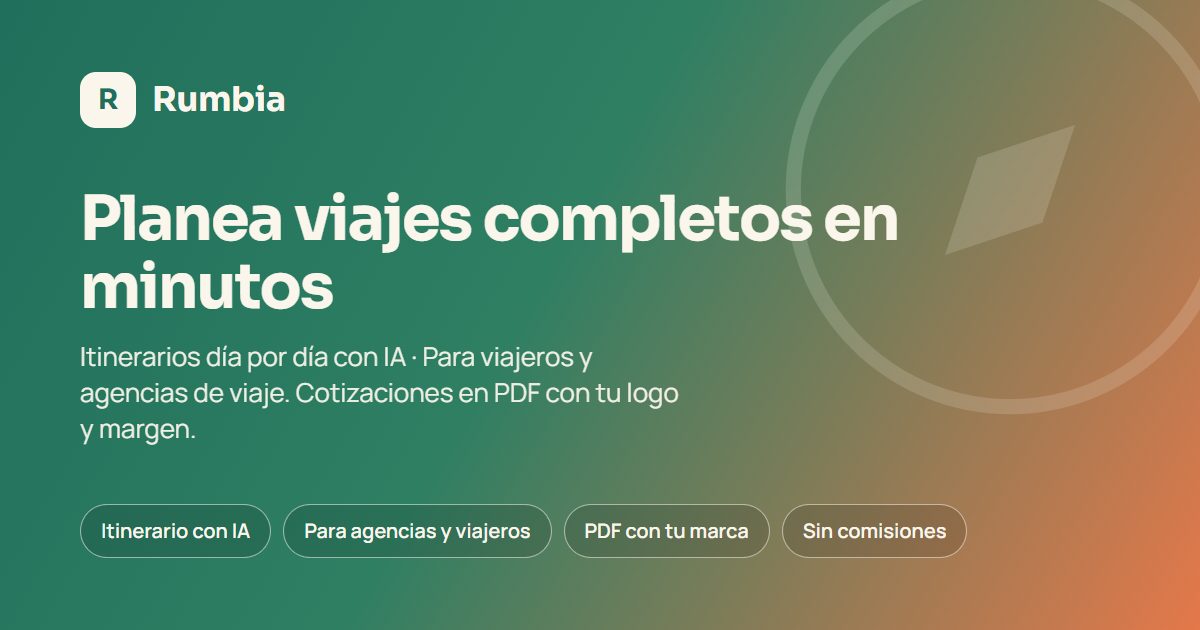
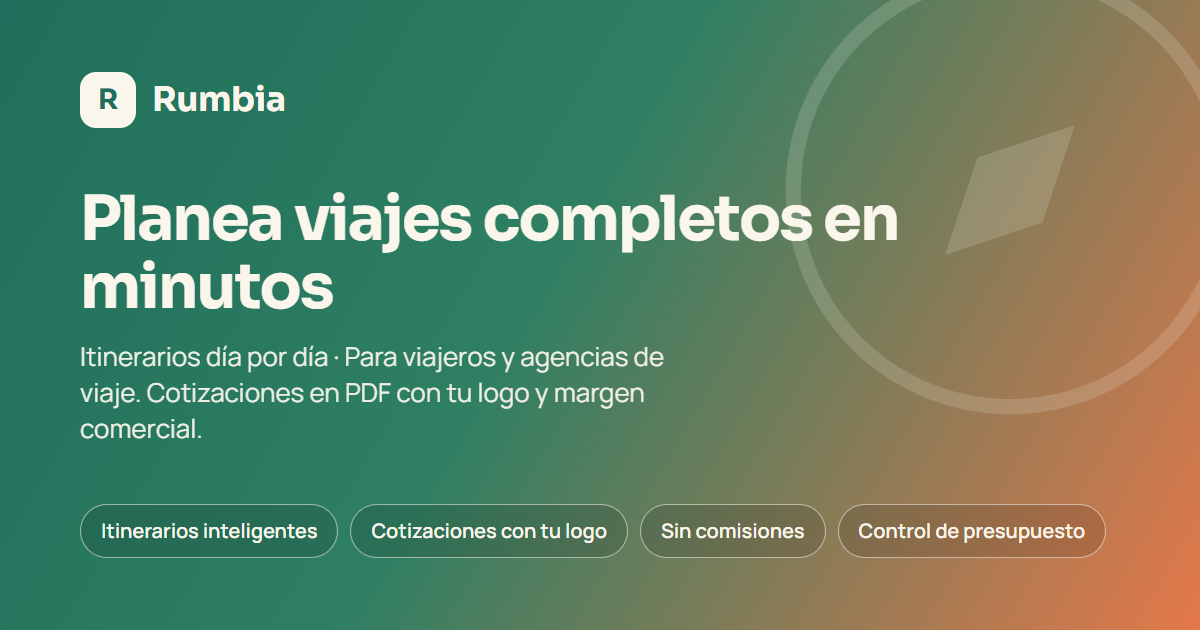
refactor(copy): suaviza menciones explicitas de IA en titulos, tarjetas de planes y portada, posicionando Rumbia como planeador inteligente

Changed region(s): [[0.0617, 0.5429, 0.5858, 0.7238], [0.1542, 0.7841, 0.925, 0.9048]]

diff --git a/client/src/pages/Acerca.jsx b/client/src/pages/Acerca.jsx
@@ -167,10 +167,10 @@ export default function Acerca() {
                   </div>
                   <ul style={{ margin: 0, paddingLeft: 18, fontSize: '0.82rem', color: 'var(--texto-suave)' }}>
                     <li>
-                      <strong>5 itinerarios generados con IA por mes</strong> (recarga cada día 1).
+                      <strong>5 itinerarios inteligentes por mes</strong> (recarga cada día 1).
                     </li>
                     <li>
-                      <strong>60 mensajes con el chatbot de IA por mes</strong>.
+                      <strong>60 consultas al asistente virtual por mes</strong>.
                     </li>
                     <li>
                       <em>Viajes guardados, notas, gastos y cálculos manuales sin ningún límite.</em>
@@ -237,7 +237,7 @@ export default function Acerca() {
                         Planes Inicio, Agencia y Pro
                       </strong>
                       <span className="tenue" style={{ fontSize: '0.8rem' }}>
-                        De 1 a 15 agentes · Hasta 500 itinerarios con IA · Ahorro anual
+                        De 1 a 15 agentes · Hasta 500 itinerarios inteligentes · Ahorro anual
                       </span>
                     </div>
                     <a
@@ -505,8 +505,8 @@ export default function Acerca() {
                   </div>
 
                   <ul className="pila-sm" style={{ paddingLeft: 18, margin: 0, fontSize: '0.88rem' }}>
-                    <li><strong>25 itinerarios con IA</strong> al mes</li>
-                    <li>60 mensajes al chat de IA por mes</li>
+                    <li><strong>25 itinerarios inteligentes</strong> al mes</li>
+                    <li>60 consultas al asistente virtual por mes</li>
                     <li>Viajes y gastos manuales ilimitados</li>
                     <li>Cálculos automáticos de vuelos y hoteles</li>
                     <li>Conversión de divisas y pronóstico del clima</li>
@@ -566,8 +566,8 @@ export default function Acerca() {
                   </div>
 
                   <ul className="pila-sm" style={{ paddingLeft: 18, margin: 0, fontSize: '0.88rem' }}>
-                    <li><strong>150 itinerarios con IA</strong> al mes</li>
-                    <li><strong>Chat de IA ilimitado</strong></li>
+                    <li><strong>150 itinerarios inteligentes</strong> al mes</li>
+                    <li><strong>Asistente virtual de chat ilimitado</strong></li>
                     <li><strong>Logo y membrete oficial</strong> de la agencia en PDF</li>
                     <li><strong>Margen comercial automático</strong> (% o monto fijo)</li>
                     <li><strong>Ocultar desglose de precios</strong> (precio cerrado al cliente)</li>
@@ -625,11 +625,11 @@ export default function Acerca() {
                   </div>
 
                   <ul className="pila-sm" style={{ paddingLeft: 18, margin: 0, fontSize: '0.88rem' }}>
-                    <li><strong>500 itinerarios con IA</strong> al mes</li>
+                    <li><strong>500 itinerarios inteligentes</strong> al mes</li>
                     <li><strong>Todo lo del plan Agencia</strong></li>
                     <li><strong>Marca Blanca:</strong> Sin mención de Rumbia en el pie de página de los PDFs</li>
                     <li><strong>Soporte prioritario</strong> directo vía WhatsApp</li>
-                    <li>Chat de IA ilimitado</li>
+                    <li>Asistente virtual de chat ilimitado</li>
                     <li>Reportes avanzados de ventas y cotizaciones</li>
                   </ul>
                 </div>
@@ -711,10 +711,10 @@ export default function Acerca() {
                   <Icono nombre="chispa" tamano={24} className="icono-seccion" />
                   <div>
                     <h3 style={{ margin: 0, fontSize: '1.35rem' }}>
-                      Inteligencia Artificial y Organización Total
+                      Asistencia Inteligente y Organización Total
                     </h3>
                     <p className="suave" style={{ margin: '3px 0 0', fontSize: '0.92rem' }}>
-                      Tecnología de Google Gemini integrada en cada paso de tu viaje.
+                      Tecnología inteligente y algoritmos avanzados para optimizar cada paso de tu viaje.
                     </p>
                   </div>
                 </div>

diff --git a/client/index.html b/client/index.html
@@ -9,10 +9,10 @@
     <!-- Ver client/public/theme-init.js: por que vive en un archivo aparte. -->
     <script src="/theme-init.js"></script>
 
-    <title>Rumbia — Planeador de viajes con IA para viajeros y agencias</title>
+    <title>Rumbia — Planeador de viajes y cotizador para agencias</title>
     <meta
       name="description"
-      content="Planea viajes completos en minutos: itinerarios día por día con IA, cotizaciones oficiales en PDF con tu logo y margen, rutas, vuelos y hospedajes."
+      content="Planea viajes completos en minutos: itinerarios día por día con asistencia inteligente, cotizaciones oficiales en PDF con tu logo y margen, rutas, vuelos y hospedajes."
     />
     <link rel="canonical" href="https://rumbiamx.com/" />
     <link rel="icon" href="/favicon.svg" type="image/svg+xml" />
@@ -27,10 +27,10 @@
     <meta property="og:site_name" content="Rumbia" />
     <meta property="og:locale" content="es_MX" />
     <meta property="og:url" content="https://rumbiamx.com/" />
-    <meta property="og:title" content="Rumbia — Planeador de viajes con IA para viajeros y agencias" />
+    <meta property="og:title" content="Rumbia — Planeador de viajes y cotizador para agencias" />
     <meta
       property="og:description"
-      content="Planea viajes completos en minutos: itinerarios día por día con IA, cotizaciones oficiales en PDF con tu logo y margen, rutas, vuelos y hospedajes."
+      content="Planea viajes completos en minutos: itinerarios día por día con asistencia inteligente, cotizaciones oficiales en PDF con tu logo y margen, rutas, vuelos y hospedajes."
     />
     <meta property="og:image" content="https://rumbiamx.com/og.jpg" />
     <meta property="og:image:secure_url" content="https://rumbiamx.com/og.jpg" />
@@ -39,16 +39,16 @@
     <meta property="og:image:type" content="image/jpeg" />
     <meta
       property="og:image:alt"
-      content="Rumbia: planea viajes completos con IA para viajeros y agencias de viaje."
+      content="Rumbia: planea viajes completos para viajeros y agencias de viaje."
     />
 
     <!-- X / Twitter -->
     <meta name="twitter:card" content="summary_large_image" />
     <meta name="twitter:site" content="@rumbiamx" />
-    <meta name="twitter:title" content="Rumbia — Planeador de viajes con IA para viajeros y agencias" />
+    <meta name="twitter:title" content="Rumbia — Planeador de viajes y cotizador para agencias" />
     <meta
       name="twitter:description"
-      content="Planea viajes completos en minutos: itinerarios día por día con IA, cotizaciones oficiales en PDF con tu logo y margen, rutas, vuelos y hospedajes."
+      content="Planea viajes completos en minutos: itinerarios día por día con asistencia inteligente, cotizaciones oficiales en PDF con tu logo y margen, rutas, vuelos y hospedajes."
     />
     <meta name="twitter:image" content="https://rumbiamx.com/og.jpg" />
   </head>

diff --git a/client/src/components/TarjetaAgencia.jsx b/client/src/components/TarjetaAgencia.jsx
@@ -31,7 +31,7 @@ export const TIERS_SELECCION = [
     precioAnual: '$104.99 USD',
     puntos: [
       'De 1 a 3 agentes incluidos',
-      '25 itinerarios con IA al mes',
+      '25 itinerarios inteligentes al mes',
       'Viajes manuales y PDFs ilimitados',
       'Datos de contacto del asesor',
     ],
@@ -45,7 +45,7 @@ export const TIERS_SELECCION = [
     precioAnual: '$249.99 USD',
     puntos: [
       'De 4 a 8 agentes incluidos',
-      '150 itinerarios con IA al mes',
+      '150 itinerarios inteligentes al mes',
       'Logo y membrete oficial en PDF',
       'Margen de ganancia automático',
       'Ocultar desglose de precios',
@@ -61,10 +61,10 @@ export const TIERS_SELECCION = [
     permiteExtra: true,
     puntos: [
       'Hasta 15 agentes incluidos',
-      '500 itinerarios con IA al mes',
+      '500 itinerarios inteligentes al mes',
       'Marca blanca (sin pie de Rumbia)',
       'Soporte prioritario por WhatsApp',
-      'Chat de IA ilimitado',
+      'Asistente de viaje en chat ilimitado',
     ],
   },
 ];
@@ -640,7 +640,7 @@ function PanelBilling({ agencia, totalAgentes, recargar }) {
         <>
           <p className="suave" style={{ marginTop: 0, marginBottom: 16 }}>
             Elige el plan que mejor se adapte al tamaño de tu equipo para activar tus propuestas,
-            itinerarios con IA y cotizaciones oficiales:
+            itinerarios inteligentes y cotizaciones oficiales:
           </p>
 
           <form onSubmit={irACheckout} className="pila" style={{ gap: 16 }}>

diff --git a/client/src/pages/Inicio.jsx b/client/src/pages/Inicio.jsx
@@ -107,7 +107,7 @@ export default function Inicio() {
         <div className="contenedor">
           <h1>Planea tu viaje completo en un solo lugar</h1>
           <p>
-            Transporte, hospedaje, presupuesto e itinerario día por día generado con IA. Pruébalo
+            Transporte, hospedaje, presupuesto e itinerario día por día con asistencia inteligente. Pruébalo
             aquí abajo: no necesitas cuenta.
           </p>
         </div>
@@ -236,7 +236,7 @@ export default function Inicio() {
 
         <section className="inicio-puntos">
           {[
-            ['chispa', 'Itinerario con IA', 'Día por día, con horarios, categorías y costo estimado por actividad.'],
+            ['chispa', 'Itinerario inteligente', 'Día por día, con horarios, categorías y sugerencias locales automáticas.'],
             ['pin', 'Mapa y clima', 'Las actividades ubicadas en el mapa y el pronóstico de tus fechas.'],
             ['recibo', 'Presupuesto real', 'Transporte, hospedaje y gastos sueltos en un solo total, con divisas convertidas.'],
           ].map(([icono, titulo, texto]) => (

diff --git a/client/src/pages/DetalleViaje.jsx b/client/src/pages/DetalleViaje.jsx
@@ -559,12 +559,12 @@ export default function DetalleViaje() {
                 </Insignia>
                 <Insignia>{itinerario.activityCount} actividades</Insignia>
                 <Insignia color={itinerario.generatedBy === 'ia' ? 'cielo' : ''}>
-                  {itinerario.generatedBy === 'ia' ? <><Icono nombre="chispa" tamano={14} /> Generado con IA</> : 'Armado a mano'}
+                  {itinerario.generatedBy === 'ia' ? <><Icono nombre="chispa" tamano={14} /> Asistido con IA</> : 'Armado a mano'}
                 </Insignia>
               </div>
             ) : (
               <Vacio icono={<Icono nombre="chispa" tamano={28} />} titulo="Sin itinerario todavía">
-                Deja que la IA te proponga un plan día por día según tus intereses, o ármalo tú
+                Genera un plan día por día según tus fechas e intereses, o ármalo paso a paso tú
                 mismo.
               </Vacio>
             )}

diff --git a/client/src/pages/ItinerarioCompartido.jsx b/client/src/pages/ItinerarioCompartido.jsx
@@ -212,7 +212,7 @@ export default function ItinerarioCompartido() {
 
                 <Tarjeta className="centrado no-imprimir">
                   <h3>¿Quieres uno así para tu viaje?</h3>
-                  <p className="suave">Ármalo con IA en un minuto, sin crear cuenta.</p>
+                  <p className="suave">Ármalo en un minuto, sin crear cuenta.</p>
                   <Link to="/" className="boton">
                     Probar Rumbia
                   </Link>
